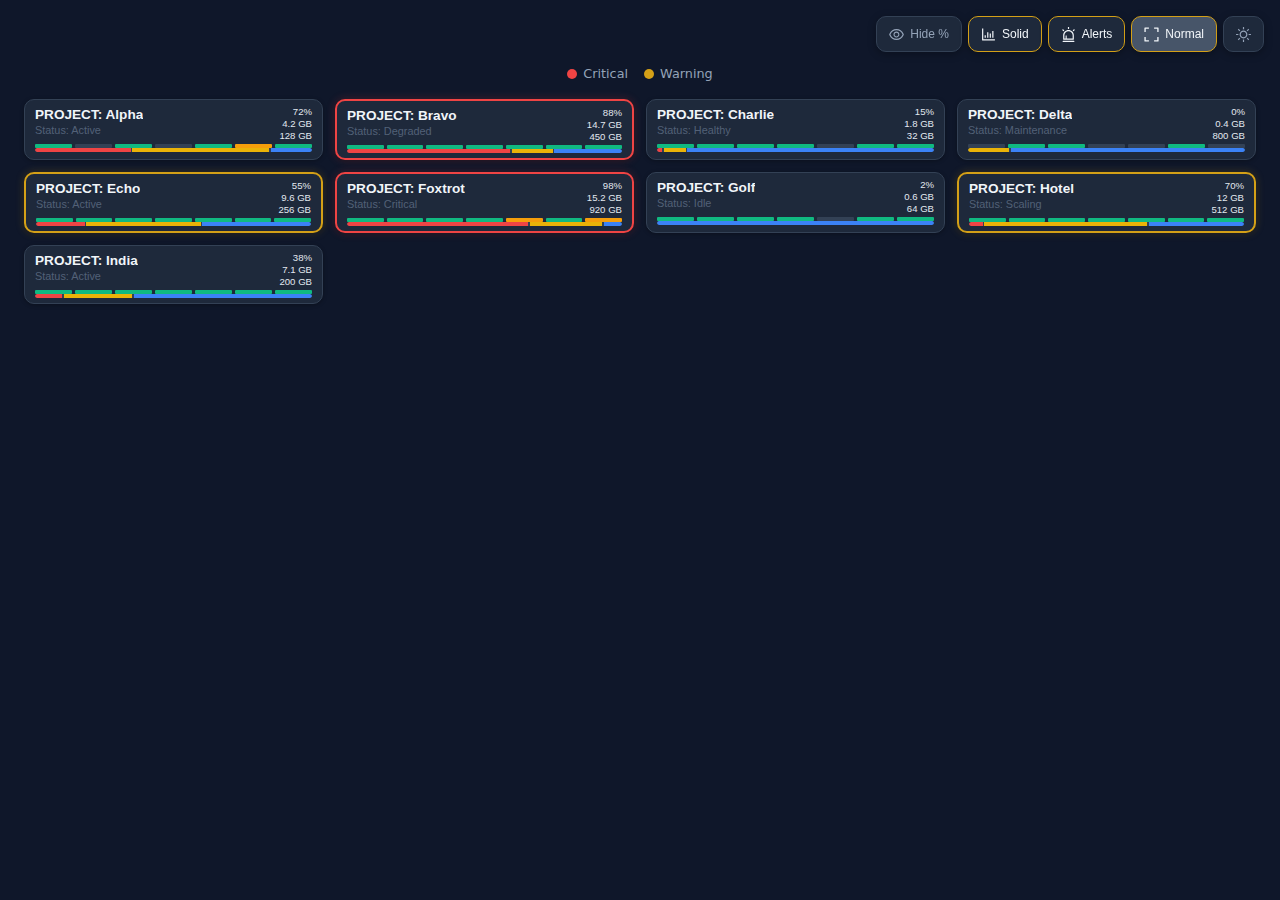
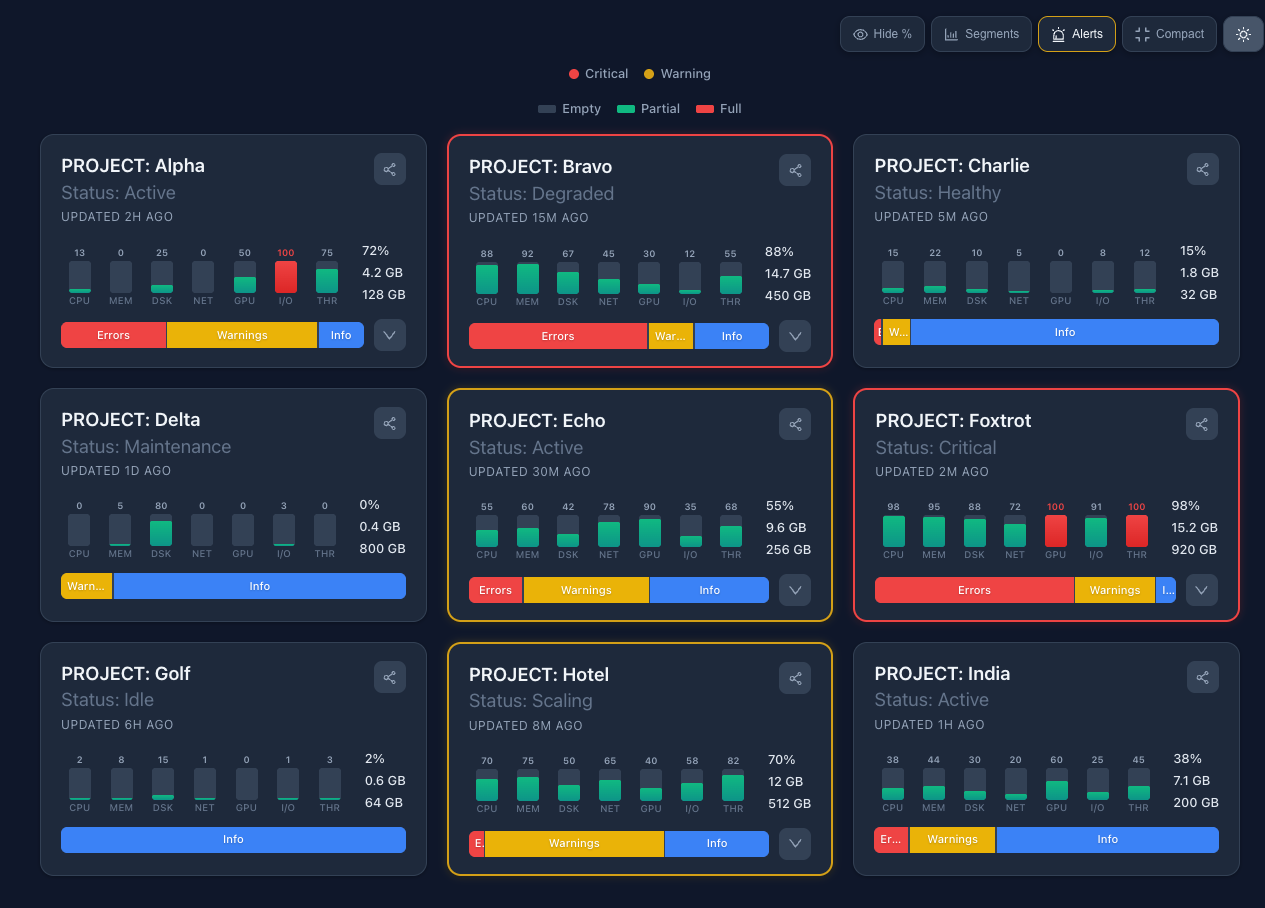
Add gauge legend, use red for full gauges, and fix compact padding
- Add always-visible gauge color legend (Empty/Partial/Full) below toolbar
- Change maxed gauge color from amber to red for clearer danger signaling
- Fix compact view: restore tiny padding between gauges and bar graph
- Update all screenshots

diff --git a/src/components/StatusCard.css b/src/components/StatusCard.css
@@ -134,7 +134,7 @@
 }
 
 .gauge-percent-maxed {
-  color: #f59e0b;
+  color: #ef4444;
 }
 
 .gauge-track {
@@ -160,7 +160,7 @@
 }
 
 .gauge-fill.maxed {
-  background: linear-gradient(180deg, #f59e0b, #d97706);
+  background: linear-gradient(180deg, #ef4444, #dc2626);
 }
 
 .gauge-fill.empty {
@@ -186,7 +186,7 @@
 }
 
 .gauge-segment.maxed {
-  background: #f59e0b;
+  background: #ef4444;
 }
 
 .gauge-segment.empty {
@@ -355,7 +355,7 @@
 }
 
 .gauge-compact-bar.maxed {
-  background: #f59e0b;
+  background: #ef4444;
 }
 
 .gauge-compact-bar.empty {
@@ -382,11 +382,11 @@
   border-radius: 2px;
 }
 
-/* Compact middle + bottom — no gap between gauge bars and segmented bar */
+/* Compact middle + bottom — tiny gap between gauge bars and segmented bar */
 .status-card-compact .card-middle {
   gap: 6px;
   align-items: center;
-  margin-bottom: -2px;
+  margin-bottom: 0;
 }
 
 .status-card-compact .card-bottom {

diff --git a/src/App.tsx b/src/App.tsx
@@ -301,6 +301,21 @@ function App() {
         </div>
       )}
 
+      <div className="legend">
+        <span className="legend-item">
+          <span className="legend-swatch legend-swatch-empty" />
+          Empty
+        </span>
+        <span className="legend-item">
+          <span className="legend-swatch legend-swatch-partial" />
+          Partial
+        </span>
+        <span className="legend-item">
+          <span className="legend-swatch legend-swatch-full" />
+          Full
+        </span>
+      </div>
+
       <div className={`card-grid ${compact ? "card-grid-compact" : ""}`}>
         {cards.map((card, i) => (
           <StatusCard key={i} {...card} showGaugePercent={showPercent} showPriority={showPriority} segmentedGauge={segmentedGauge} compact={compact} onShare={() => {}} />

diff --git a/src/App.css b/src/App.css
@@ -98,6 +98,24 @@
   background: var(--legend-warning-dot);
 }
 
+.legend-swatch {
+  width: 18px;
+  height: 8px;
+  border-radius: 2px;
+}
+
+.legend-swatch-empty {
+  background: var(--gauge-empty);
+}
+
+.legend-swatch-partial {
+  background: #10b981;
+}
+
+.legend-swatch-full {
+  background: #ef4444;
+}
+
 /* ── Card grid: 3 columns ── */
 .card-grid {
   display: grid;
